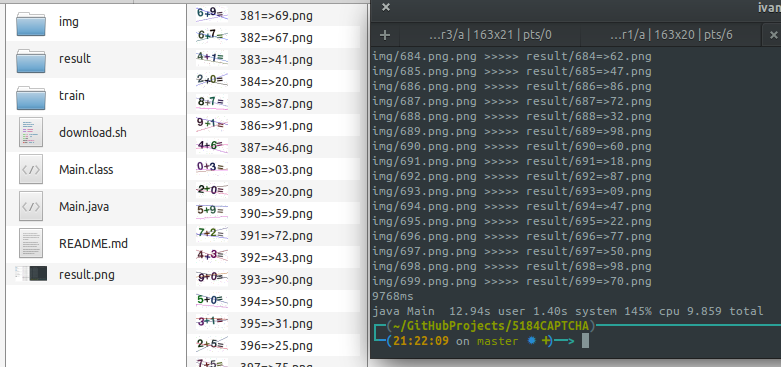
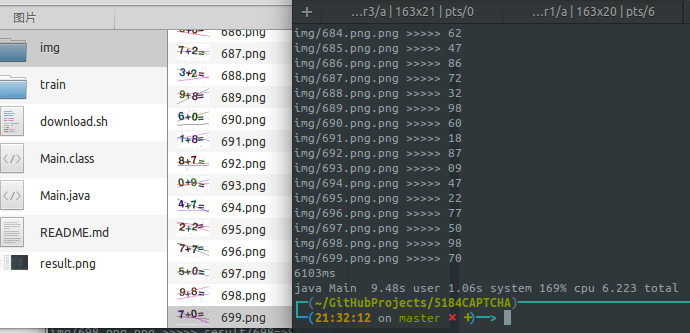
modify output

diff --git a/Main.java b/Main.java
@@ -228,9 +228,9 @@ public class Main {
         for (int i = 0; i < 700; ++i) {
             String filePath = "img/"+i+".png";
             String result = getAllOcr(filePath);
-            String outputPath = "result/"+i+"=>"+result+".png";
-            ImageIO.write(ImageIO.read(new File(filePath)), "PNG", new File(outputPath));
-            System.out.println(filePath + ".png >>>>> " + outputPath);
+            //String outputPath = "result/"+i+"=>"+result+".png";
+            //ImageIO.write(ImageIO.read(new File(filePath)), "PNG", new File(outputPath));
+            System.out.println(filePath + ".png >>>>> " + result);
         }
         System.out.println(System.currentTimeMillis()-start+"ms");
     }
